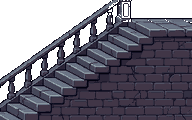
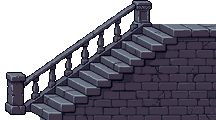
Перила лестницы: столб внизу на полу и сверху с шапкой (без дыр и обреза); план: задания Алкимы и Илиа, замысел и «четыре туза» в story.md
Claude-Session: https://claude.ai/code/session_01NZaKJV7VXAQHZfGwN3MbH5

diff --git a/src/background.js b/src/background.js
@@ -392,14 +392,17 @@ export function drawDoor(g, d, floorTop, tiled = false) {
 // наверху площадка и дверь (та же, что в залах). Рыцарь поднимается по ступеням наискось, сбоку.
 export const STAIR_DROP = 6;                                        // низ ступеней — на линии шага у стены (z = 0)
 export const STAIR_PATH = [[0.03, 0.95], [0.64, 0.19], [0.84, 0.17]];   // v0.74: дверь — вровень с правым краем площадки   // нижняя ступень → верхняя → к двери
+// у картинки лестницы слева поле под нижний столб перил (v0.74, 24 px картинки = 12 мира): x0 и w — по самим ступеням
+export const STAIR_PAD = 12;
+const stairW = im => im.width / 2 - STAIR_PAD;
 export function stairsX(room, length) {
-  const w = (objImg('stairs')?.width ?? 140) / 2;
+  const im = objImg('stairs'), w = im ? stairW(im) : 70;
   return room.stairsX ?? (room.stairs === 'right' ? length - w - 4 : length / 2 - w / 2);
 }
 export function stairsGeom(room, floorTop) {
   const im = objImg('stairs');
   if (!im || !room.stairs || !room.tiles) return null;
-  const x0 = stairsX(room, room.length), w = im.width / 2, h = im.height / 2, top = floorTop + STAIR_DROP - h;
+  const x0 = stairsX(room, room.length), w = stairW(im), h = im.height / 2, top = floorTop + STAIR_DROP - h;
   return { x0, w, h, top, pts: STAIR_PATH.map(([fx, fy]) => [x0 + fx * w, top + fy * h]) };
 }
 // картинка, подкрашенная к среднему цвету стены слева от x0 (холст фона в масштабе 2: пиксели = мир × 2)
@@ -431,7 +434,7 @@ function tintToWall(g, im, x0, floorTop, k = 0.3) {
 function drawStairs(g, x0, floorTop, tiled = false, blocked = false) {
   const im = tiled && objImg('stairs');
   if (im) {
-    const w = im.width / 2, h = im.height / 2, top = floorTop + STAIR_DROP - h;
+    const w = stairW(im), h = im.height / 2, top = floorTop + STAIR_DROP - h;
     // тень на стене справа от кладки лестницы (она выступает из стены) — до двери и ступеней
     const sh = g.createLinearGradient(x0 + w, 0, x0 + w + 10, 0);
     sh.addColorStop(0, 'rgba(10,8,18,0.45)');
@@ -445,13 +448,13 @@ function drawStairs(g, x0, floorTop, tiled = false, blocked = false) {
     // цвет кладки — к цвету стен комнаты: средний цвет стены рядом подмешивается к картинке (v0.74, владелец:
     // «вставленная картинка не вписывается»)
     const tinted = tintToWall(g, im, x0, floorTop);
-    drawObj(g, tinted ?? im, x0 + w / 2, floorTop + STAIR_DROP);
+    drawObj(g, tinted ?? im, x0 - STAIR_PAD + im.width / 4, floorTop + STAIR_DROP);
     // тень касания: пол у основания ступеней темнее
     const cs = g.createLinearGradient(0, floorTop + STAIR_DROP - 2, 0, floorTop + STAIR_DROP + 7);
     cs.addColorStop(0, 'rgba(10,8,18,0.5)');
     cs.addColorStop(1, 'rgba(10,8,18,0)');
     g.fillStyle = cs;
-    g.fillRect(x0 + 2, floorTop + STAIR_DROP - 2, w - 2, 9);
+    g.fillRect(x0 - STAIR_PAD + 2, floorTop + STAIR_DROP - 2, w + STAIR_PAD - 2, 9);
     return;
   }
   const steps = 9, sw = 8, sh = 9;

diff --git a/docs/story.md b/docs/story.md
@@ -140,3 +140,18 @@ ilia_meet:
 - **Выбор** — варианты ответа; каждый может поставить флаг и перейти к другому диалогу.
 - **Флаг** — память игры о событии («спросил имя», «пощадил»). По флагам меняются реплики позже: «если спросил имя — Илиа вспоминает его».
 - **Где звучит диалог:** перед встречей (`before` у встречи в `src/config.js`), после поражения врага (`defeatDialogue`), во вступлении (`intro`). Позже — у NPC и предметов.
+
+
+## Замысел игры (со слов владельца, 14.10)
+
+Это не случайная игра. Владелец — писатель и поэт; в игру он вкладывает свои переживания, мечты, эмоции, истории,
+философию и умение писать — вместе с визуалом и геймплеем. Часть персонажей — «оцифрованные» люди из его жизни
+(имена и характеры изменены, но вдохновение — настоящее). Те, кто сформировал его личность, в лоре показывают, как они
+сформировали личность Найта; на текущий сюжет они не влияют — через рыцаря владелец рассказывает о собственном росте.
+
+- **«Четыре туза»** — компания четырёх друзей владельца, у каждого своя масть: Лика — **бубны** (поэтому продаёт
+  Бубновый туз), есть **крести** и **черви**, сам владелец — **пики**. Раскрыть компанию — в деревне (после главы 1):
+  все четверо там, у каждого — связь со своей картой; пиковый туз Найт находит сам, остальные масти — там же
+  (как именно — владелец решит).
+- **Алкима** — с неё началась дорога Найта (прообраз — человек, с которого у владельца всё началось).
+- **Илиа** — будущий друг; шутка «AI B2B SaaS» — его «занятие».

diff --git a/docs/plan-chapter1.md b/docs/plan-chapter1.md
@@ -74,6 +74,15 @@
 - **Библиотека заброшенная (14.10)** — очень много книг, несколько столов, бумаги и записки на полу, потушенная свеча,
   которую можно зажечь; часть книг и записок читается. Возможно — отдельная комната библиотеки, где живёт кот.
 
+- **Побочное задание с Алкимой (14.10)** — разовое, раскрывает лор Найта: их прошлое знакомство. Алкима не учила его
+  напрямую — с неё началась его дорога, она «ознаменовала начало пути» (прообраз — человек, с которого у владельца
+  всё началось). На сюжет главы не влияет, только раскрывает, кто такой Найт. Тексты — `[черновик]`, смысл — владелец.
+- **Побочное задание с Илиа (14.10)** — задел на будущую дружбу. В разговоре: «А чем ты занимаешься?» — Илиа: **«AI B2B
+  SaaS»** (локальная шутка владельца; расшифровать по-средневековому, чуть ломая четвёртую стену — что-то про оружие,
+  поиск, клеймо/номерной знак; придумаем; мои варианты — черновиком).
+- **Лика — без побочных заданий в главе 1 (14.10):** она здесь для торговли и как отсылка к самому активному
+  бета-тестеру; раскроется позже, в деревне.
+
 ## Б. Комнаты — чего добавить (сам, декор без вопросов)
 
 - **Камера:** солома, ведро, миска, цепи на стене, следы на полу у портала.

diff --git a/docs/design.md b/docs/design.md
@@ -164,7 +164,8 @@
 - Обрыв на балконе (владелец): конец моста трескается, осыпается и садится на скалу, перила надломлены, уступы уходят
   вниз к ельнику. Картинка — дорисовка PixelLab по маске поверх настоящей сцены (`tools/pixellab_cliff.py`, inpaint-v3),
   поэтому срастается с полом и перилами; над линией пола небо — дальний план. Без дымки.
-- Перила лестницы заканчиваются столбом у верхней ступени (дорисовка PixelLab по маске), площадка открыта.
+- Перила лестницы: снизу начинаются столбом на полу, сверху заканчиваются столбом с шапкой (дорисовка PixelLab по маске на
+  прозрачном фоне, картинка шире на 24 px слева — `STAIR_PAD`), площадка открыта.
 
 ## v0.73: разворот к угрозе, свежая версия по ссылке
 
